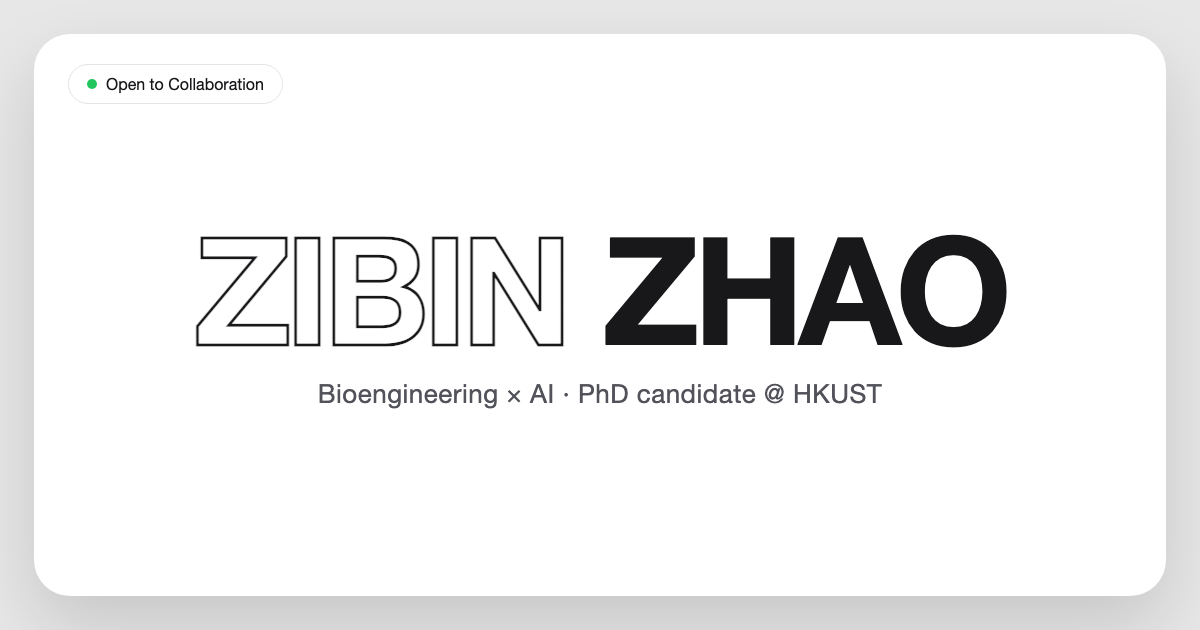
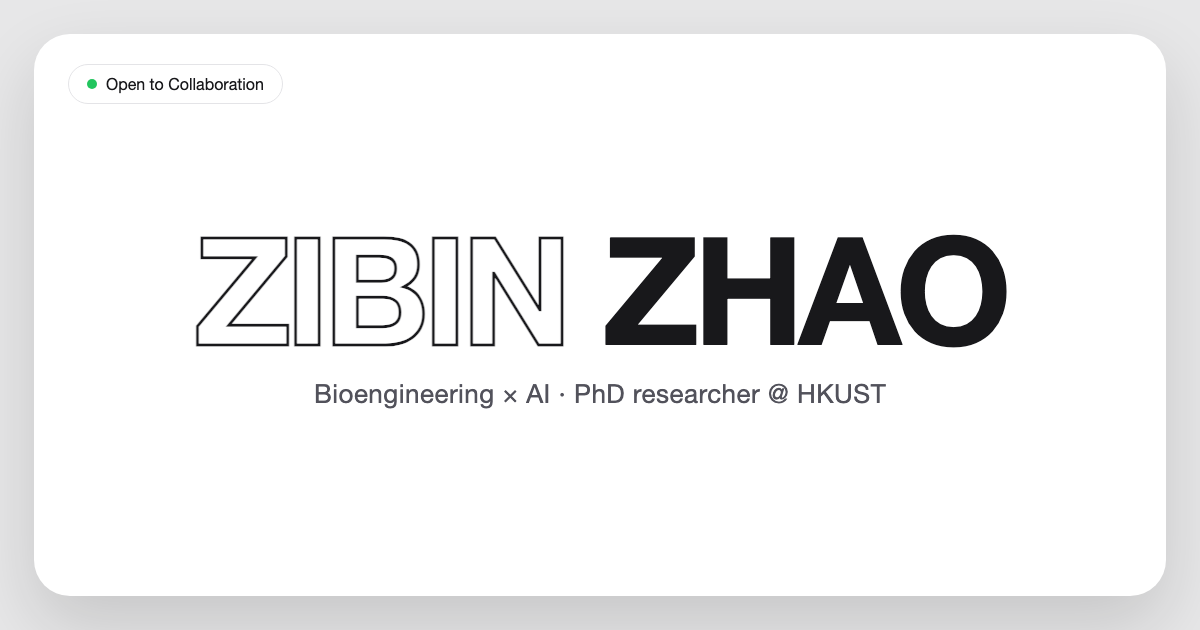
fix: update PhD wording in social image

Changed region(s): [[0.2467, 0.6032, 0.74, 0.6635]]

diff --git a/tests/playful-researcher-refinement.test.ts b/tests/playful-researcher-refinement.test.ts
@@ -28,6 +28,7 @@ describe('playful researcher refinement', () => {
     const about = read('src/components/About.astro');
     const profile = read('src/data/profile.ts');
     const base = read('src/layouts/Base.astro');
+    const ogTemplate = read('tools/og-template.html');
     const approvedEnglishStory = 'I keep making things because apparently leaving an idea alone is not one of my skills. Some are useful, some are gloriously unnecessary, and most begin with “what if?” I like trains, games, design, AI, biology, and the strange places where they crash into each other. Somewhere along the way, curiosity accidentally turned into doing a PhD at HKUST. I still learn the same way: build it, break it, make notes, try again.';
 
     expect(about).toContain('CURIOSITY FILE / ACTIVE');
@@ -43,8 +44,9 @@ describe('playful researcher refinement', () => {
     expect(base).toContain("jobTitle: 'PhD Researcher in Bioengineering'");
     expect(base).toMatch(/AI[\s\S]*biology|biology[\s\S]*AI/i);
     expect(base).toMatch(/molecular diagnostics/i);
+    expect(ogTemplate).toContain('PhD researcher @ HKUST');
 
-    for (const source of [about, profile, base]) {
+    for (const source of [about, profile, base, ogTemplate]) {
       expect(source).not.toMatch(/PhD candidate/i);
     }
   });

diff --git a/tools/og-template.html b/tools/og-template.html
@@ -12,6 +12,6 @@
   <div class="card">
     <div class="pill"><span class="dot"></span> Open to Collaboration</div>
     <div class="name"><span class="o">ZIBIN</span> ZHAO</div>
-    <div class="sub">Bioengineering × AI · PhD candidate @ HKUST</div>
+    <div class="sub">Bioengineering × AI · PhD researcher @ HKUST</div>
   </div>
 </body></html>
